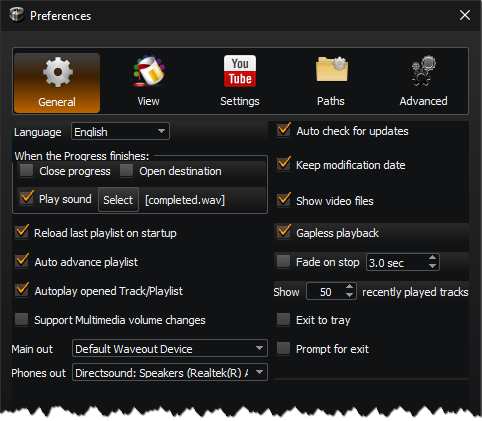
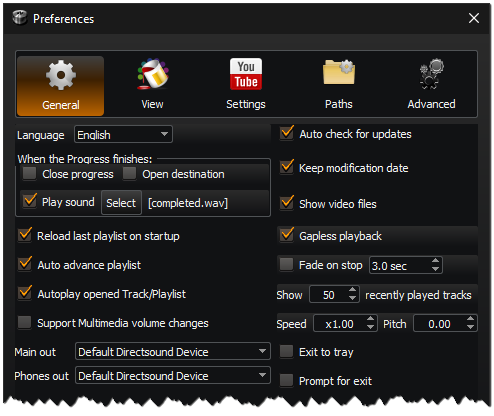
User Guide

Changed region(s): [[0.0, 0.0, 1.0, 1.0]]

diff --git a/docs/index_el.md b/docs/index_el.md
@@ -543,6 +543,12 @@ ___
   Προσπάθεια εξάλειψης της σιωπής που ακούγεται κατά τη διάρκεια του χρόνου που χρειάζεται για να φορτωθεί το επόμενο κομμάτι.
 - **Σβήσιμο στο σταμάτημα**  
  Χαμήλωμα του κομματιού που παίζει πριν το σταμάτημα της αναπαραγωγής.
+- **Εμφάνιση … πρόσφατων κομματιών**  
+  Ο αριθμός των κομματιών που εμφανίζεται στο μενού των Πρόσφατων κομματιών.
+- **Ταχύτητα**  
+  Η ταχύτητα αναπαρωγής των κομματιών. Η κανονική είναι x1.00
+- **Τονικότητα**  
+  Αλλαγή της τονικότητας των κομματιών σε ημιτόνια. Χωρίς καμία αλλαγή είναι το 0.00
 - **Έξοδος σε εικονίδιο**  
   Όταν πατάμε το κουμπί κλεισίματος το KataLib, το πρόγραμμα δεν κλείνει τελείως, αντίθετα ελαχιστοποιείται στο εικονίδιο της περιοχής των ειδοποιήσεων.  
   Όταν είναι ενεργοποιημένο, ο μόνος τρόπος εξόδου από το πρόγραμμα είναι η επιλογή **Έξοδος** στο μενού του εικονιδίου της περιοχής των ειδοποιήσεων.
@@ -983,23 +989,27 @@ ___
 | Εναλλαγή του παραθύρου των Ιδιοτήτων | Alt+P               |
 | Εναλλαγή του Πάντα στο προσκήνιο     | Ctrl+O              |
 
-| **Αναπαραγωγή**                        |                 |
-|----------------------------------------|-----------------|
-| Αναπαραγωγή/Παύση                      | Κενό            |
-| Σταμάτημα                              | Ctrl+Κενό       |
-| Σταμάτημα με σβήσιμο                   | Ctrl+Alt+Κενό   |
-| Σταμάτημα όταν τελειώσει το κομμάτι    | Shift+Κενό      |
-| Αναζήτηση (μπάρα θέσης)                | Αριστερό/Δεξι ↔ |
-| Αναπαραγωγή επόμενου                   | Ctrl+Δεξι →     |
-| Αναπαραγωγή προηγούμενου               | Ctrl+Αριστερό ← |
-| Αναπαραγωγή επόμενου με μίξη           | Alt+Δεξι →      |
-| Ένταση ήχου                            | Πάνω/Κάτω ↑↓    |
-| Σίγαση                                 | Alt+M           |
-| Tap Tempo                              | Alt+T           |
-| Επιλογή επόμενου                       | Ctrl+Κάτω ↓     |
-| Επιλογή προηγούμενου                   | Ctrl+Πάνω ↑     |
-| Αποθήκευση του σημείου αναπαραγωγής    | Ctrl+Τελεία     |
-| Αναπαραγωγή από το αποθηκευμένο σημείο | Alt+Τελεία      |
+| **Αναπαραγωγή**                        |                     |
+|----------------------------------------|---------------------|
+| Αναπαραγωγή/Παύση                      | Κενό                |
+| Σταμάτημα                              | Ctrl+Κενό           |
+| Σταμάτημα με σβήσιμο                   | Ctrl+Alt+Κενό       |
+| Σταμάτημα όταν τελειώσει το κομμάτι    | Shift+Κενό          |
+| Αναζήτηση (μπάρα θέσης)                | Αριστερό/Δεξι ↔     |
+| Αναπαραγωγή επόμενου                   | Ctrl+Δεξι →         |
+| Αναπαραγωγή προηγούμενου               | Ctrl+Αριστερό ←     |
+| Αναπαραγωγή επόμενου με μίξη           | Alt+Δεξι →          |
+| Ένταση ήχου                            | Πάνω/Κάτω ↑↓        |
+| Σίγαση                                 | Alt+M               |
+| Tap Tempo                              | Alt+T               |
+| Επιλογή επόμενου                       | Ctrl+Κάτω ↓         |
+| Επιλογή προηγούμενου                   | Ctrl+Πάνω ↑         |
+| Αποθήκευση του σημείου αναπαραγωγής    | Ctrl+Τελεία         |
+| Αναπαραγωγή από το αποθηκευμένο σημείο | Alt+Τελεία          |
+| Ταχύτητα αναπαραγωγής κάτω ανά 0.1     | [ ή /               |
+| Ταχύτητα αναπαραγωγής πάνω ανά 0.1     | ] ή *               |
+| Τονικότητα αναπαραγωγής ημιτόνιο κάτω  | - (Shift για cents) |
+| Τονικότητα αναπαραγωγής ημιτόνιο πάνω  | + (Shift για cents) |
 
 | **Λίστα αναπαραγωγής**             |            |
 |------------------------------------|------------|

diff --git a/docs/index.md b/docs/index.md
@@ -546,7 +546,7 @@ There are five pages in the Preferences dialog:
   Automatically starts playback if a file or a playlist is opened with KataLib, and the Playlist is empty.
 - **Support Multimedia volume changes**  
   Enables the use of multimedia keys to control the playback volume of the player. 
-- The **Output section** let us select independently the audio device for the **Main out** of the player, and the **Phones out**, which is what the [Preview - Cue](#preview---cue-dialog) dialog uses.  
+- The **Output section** let us select independently the audio device for the **Main out** of the player, and the **Phones out**, which is what the [Preview/Cue](#preview---cue-dialog) dialog uses.  
 - **Auto check for updates**  
   Automatically check online for an updated version.
 - **Keep modification date**  
@@ -555,10 +555,16 @@ There are five pages in the Preferences dialog:
   Show video files in Library and also allow them to play in the Playlist.  
   These files are always in the database, we just select if we like to see them or not.  
   Video files are files with extensions like avi, mp4, mov, mkv etc.
-- **Fade on stop**  
-  Fade out the playing track before stopping.
 - **Gapless Playback**  
   Try to eliminate the silence that is heard during the time it needs for the next track to get loaded.
+- **Fade on stop**  
+  Fade out the playing track before stopping.
+- **Show … recently played tracks**  
+  Select how many tracks to show in the Recently Played menu.
+- **Speed**  
+  The playback speed of the player. The default is x1.00
+- **Pitch**  
+  The playback pitch of the player in semitones. The default is 0.00
 - **Exit to tray**  
   Don't exit KataLib when the close button is pressed, instead minimize it to the tray icon.  
   If this is enabled the only way to exit the program is by the **Exit** entry in the tray icon menu.
@@ -1020,23 +1026,27 @@ ___
 | Toggle Always on Top      | Ctrl+O |
 
 
-| **Player**            |                   |
-|-----------------------|-------------------|
-| Play/Pause            | SpaceBar          |
-| Stop                  | Ctrl+SpaceBar     |
-| Stop w/Fade out       | Ctrl+Alt+SpaceBar |
-| Stop when track ends  | Shift+SpaceBar    |
-| Seek (PositionBar)    | Left/Right ↔      |
-| Play Next             | Ctrl+Right →      |
-| Play Previous         | Ctrl+Left ←       |
-| Play Next w/Crossfade | Alt+Right →       |
-| Volume                | Up/Down ↑↓        |
-| Mute                  | Alt+M             |
-| Tap Tempo             | Alt+T             |
-| Select Next           | Ctrl+Down ↓       |
-| Select Previous       | Ctrl+Up ↑         |
-| Save Track's position | Ctrl+Period       |
-| Play from position    | Alt+Period        |
+| **Player**                 |                     |
+|----------------------------|---------------------|
+| Play/Pause                 | SpaceBar            |
+| Stop                       | Ctrl+SpaceBar       |
+| Stop w/Fade out            | Ctrl+Alt+SpaceBar   |
+| Stop when track ends       | Shift+SpaceBar      |
+| Seek (PositionBar)         | Left/Right ↔        |
+| Play Next                  | Ctrl+Right →        |
+| Play Previous              | Ctrl+Left ←         |
+| Play Next w/Crossfade      | Alt+Right →         |
+| Volume                     | Up/Down ↑↓          |
+| Mute                       | Alt+M               |
+| Tap Tempo                  | Alt+T               |
+| Select Next                | Ctrl+Down ↓         |
+| Select Previous            | Ctrl+Up ↑           |
+| Save Track's position      | Ctrl+Period         |
+| Play from position         | Alt+Period          |
+| Player speed down by 0.1   | [ or /              |
+| Player speed up by 0.1     | ] or *              |
+| Player pitch semitone down | - (Shift for cents) |
+| Player pitch semitone up   | + (Shift for cents) |
 
 
 | **PlayList**               |               |
